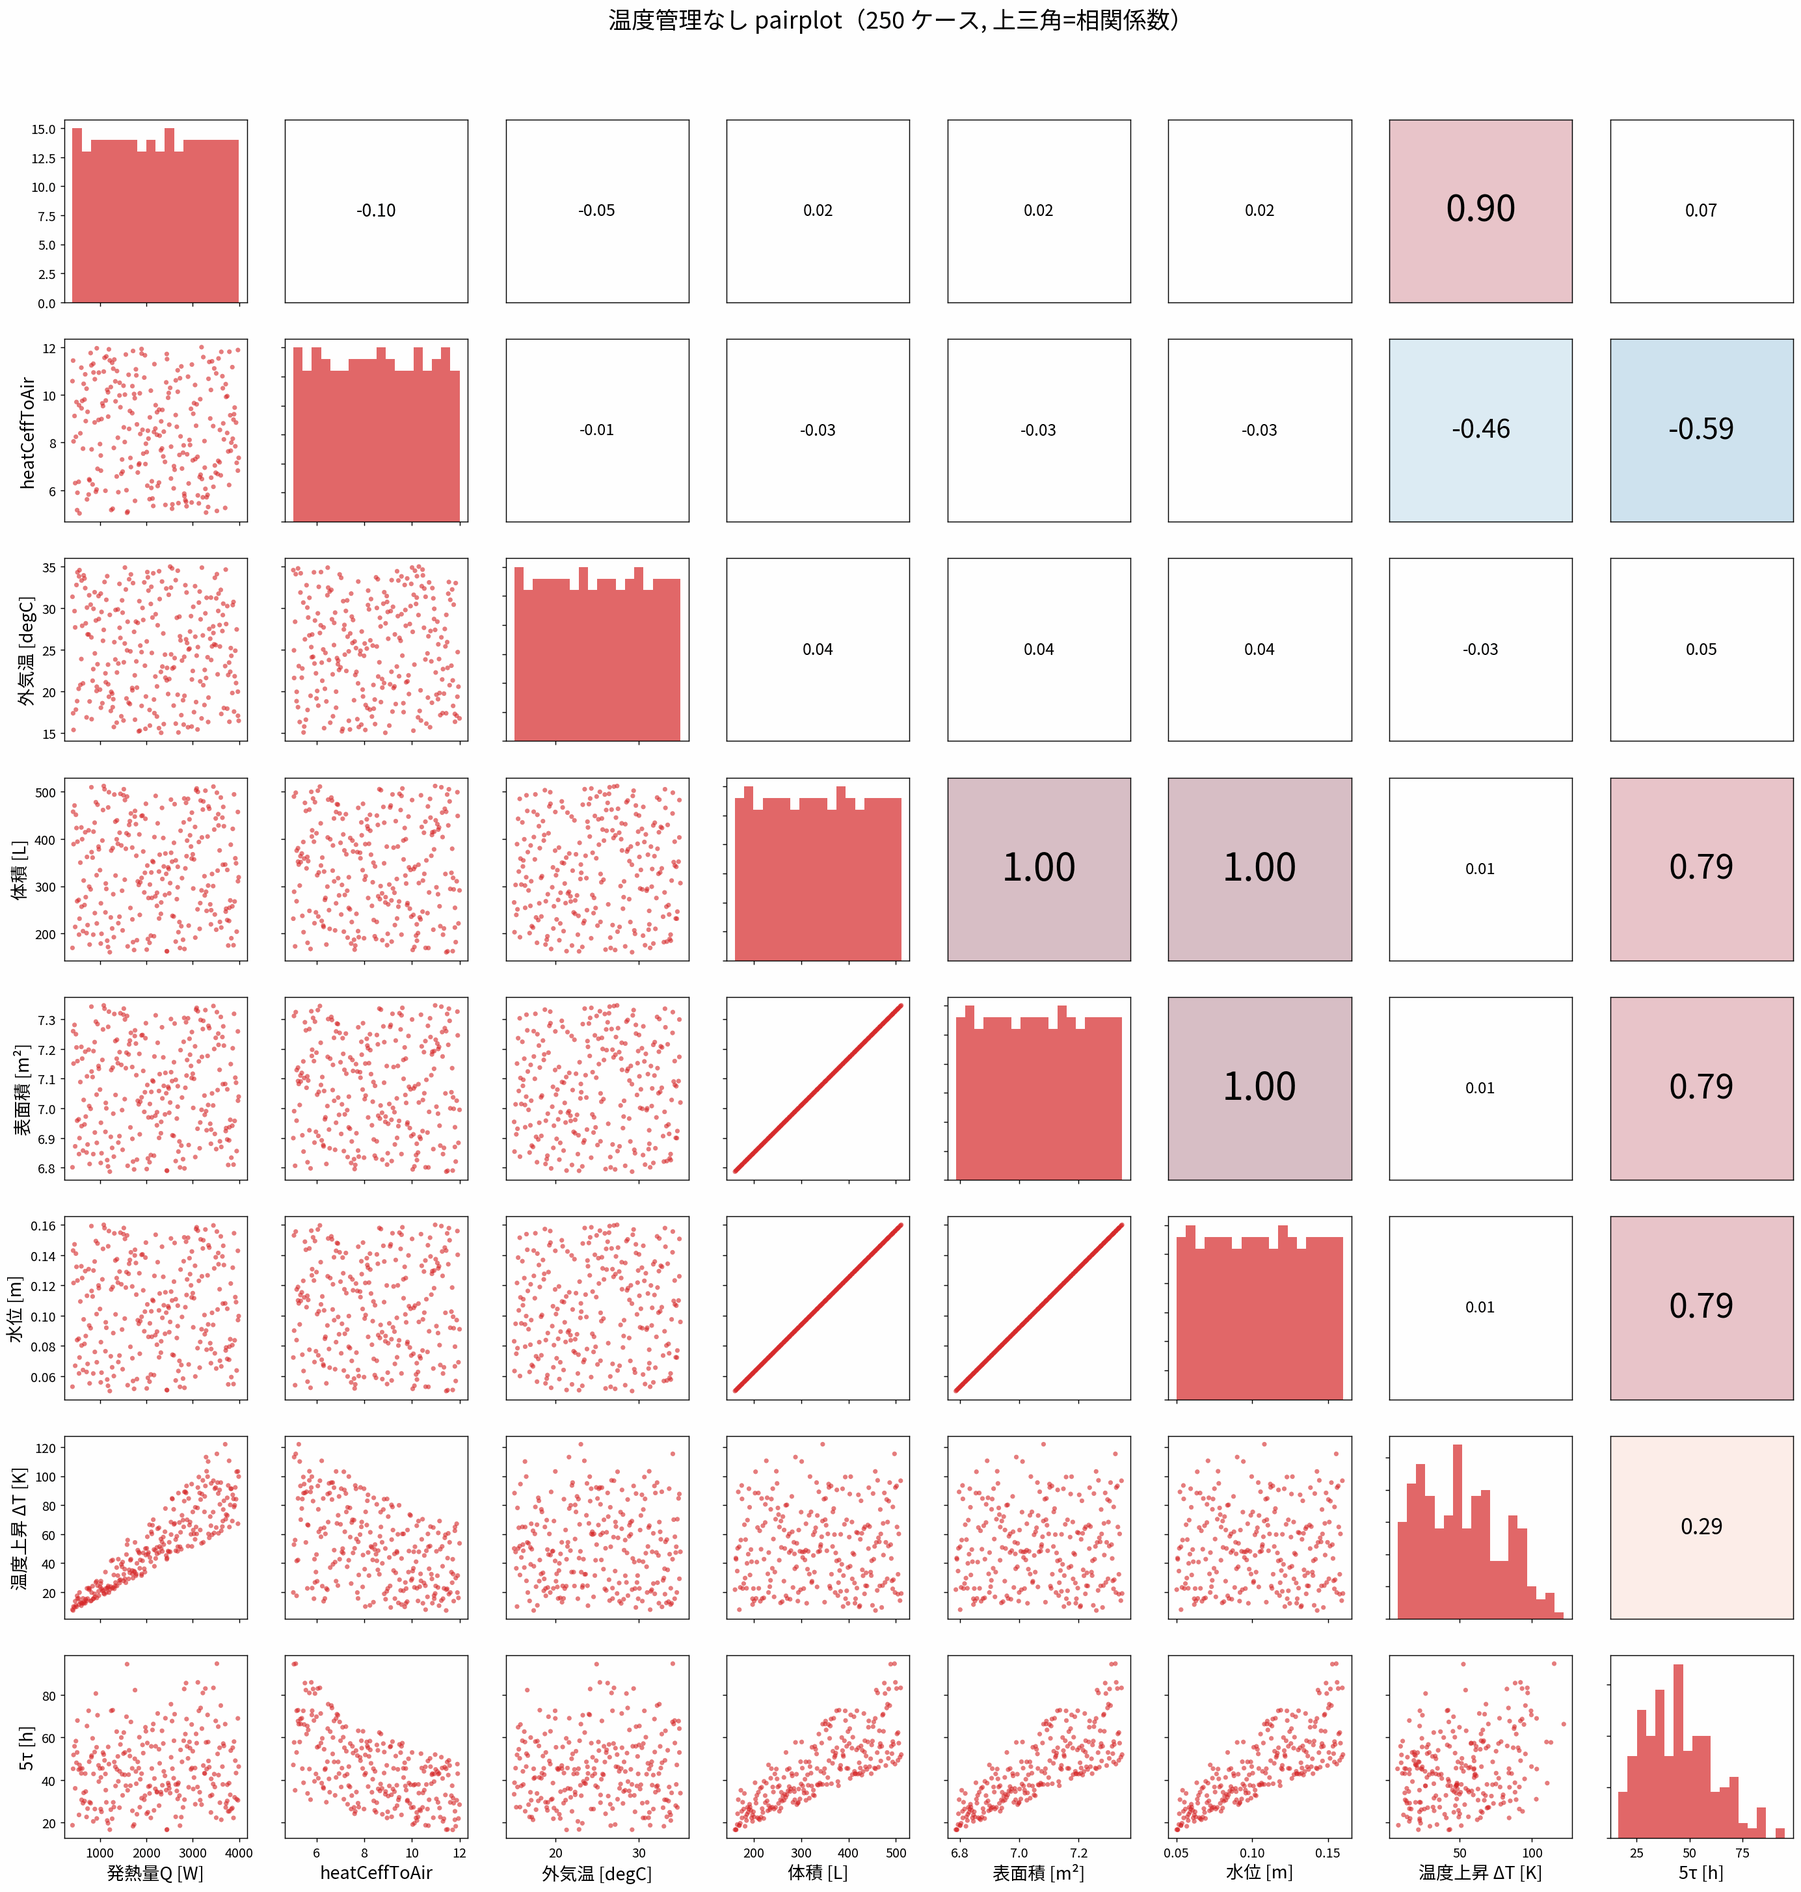
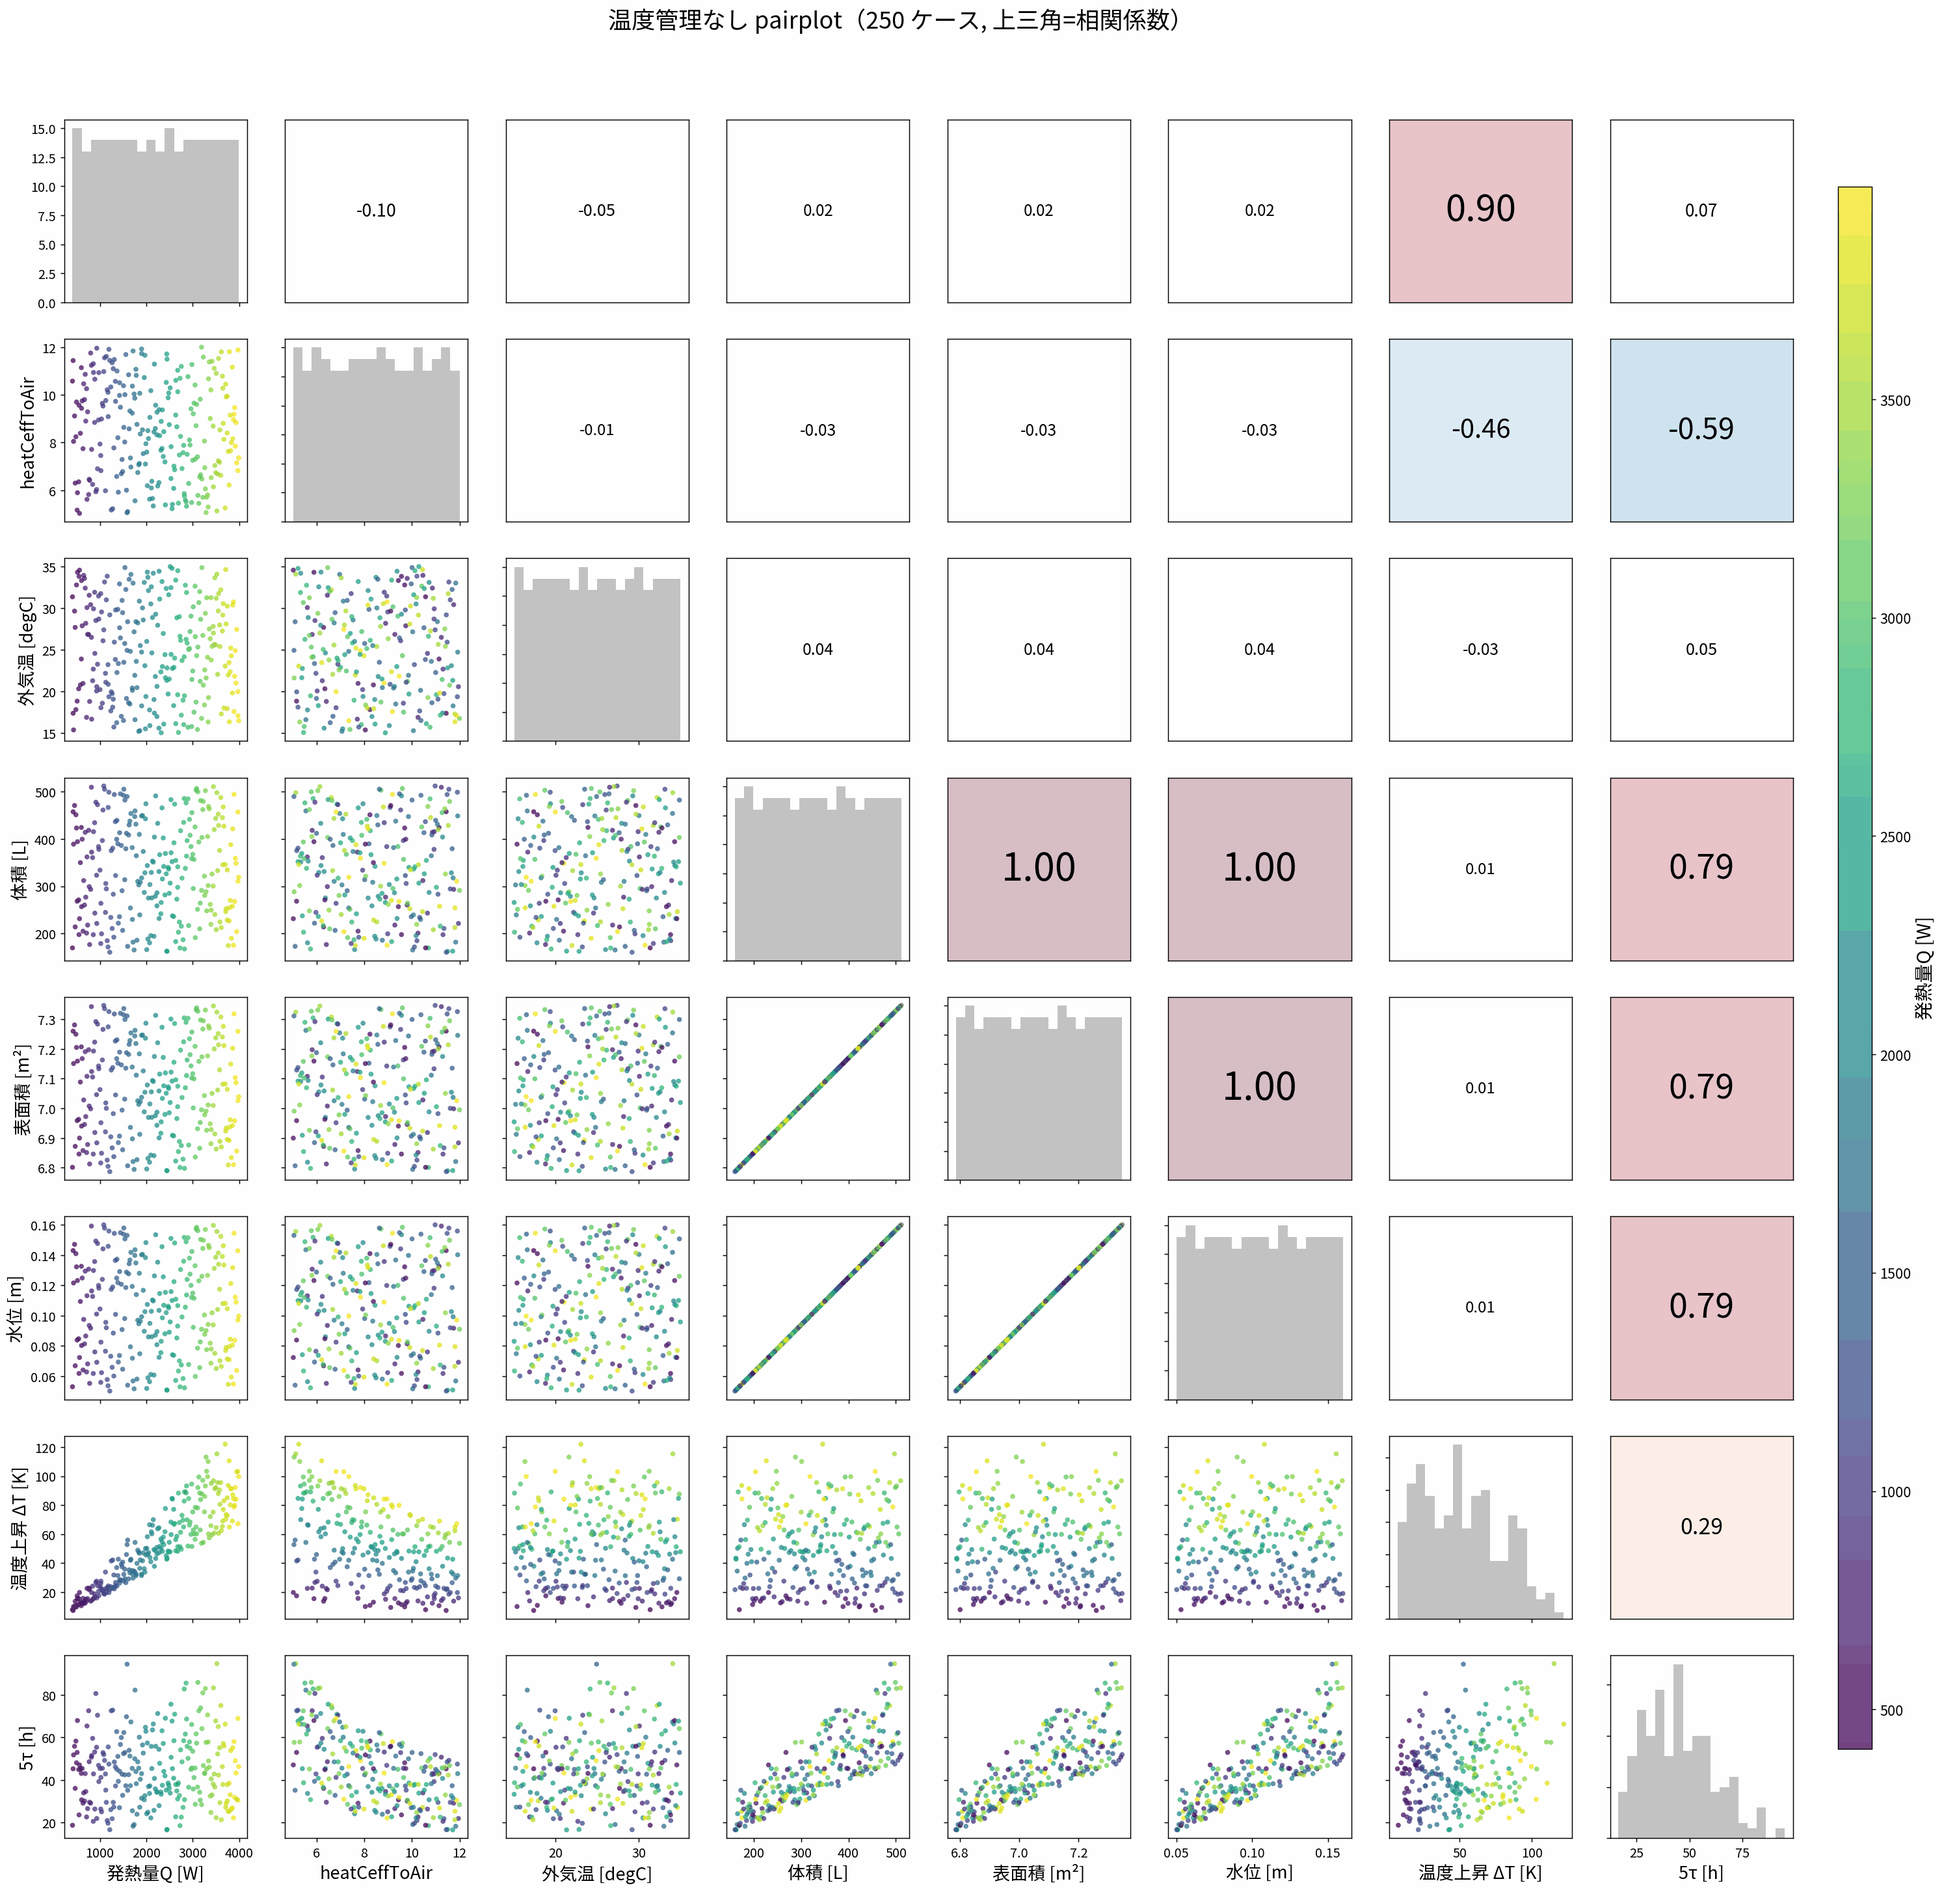
温度管理pairplot(あり/なし)を発熱量Qで色分け
- pairplot1をカラーマップ(viridis)+カラーバー対応にし、点の色=発熱量Q に
- あり側はΔTがQ<3500で0, Q>3500(冷却上限超)で上昇するのが色で明瞭

Claude-Session: https://claude.ai/code/session_012Bb2Gqoegt25dmMh1N6dBX

diff --git a/003_tank_para/pairplot_control.py b/003_tank_para/pairplot_control.py
@@ -88,10 +88,11 @@ def lhs(n, ranges, seed=1):
     return out
 
 
-def pairplot1(data, labels, color, path, title):
-    """単色 pairplot。下三角=散布, 対角=ヒスト, 上三角=相関係数(定数列は—)。"""
+def pairplot1(data, labels, cvals, clabel, path, title):
+    """pairplot。点の色 = cvals(発熱量Q)。下三角=散布, 対角=ヒスト, 上三角=相関係数。"""
     m = len(labels)
     fig, axes = plt.subplots(m, m, figsize=(3.3 * m, 3.3 * m))
+    sc = None
     for i in range(m):
         for j in range(m):
             ax = axes[i, j]
@@ -108,9 +109,10 @@ def pairplot1(data, labels, color, path, title):
                             transform=ax.transAxes, fontweight="bold", fontsize=13 + abs(r) * 20)
                 ax.set_xticks([]); ax.set_yticks([]); continue
             if i == j:
-                ax.hist(data[:, i], bins=18, color=color, alpha=0.7)
+                ax.hist(data[:, i], bins=18, color="0.7", alpha=0.8)
             else:
-                ax.scatter(data[:, j], data[:, i], c=color, s=16, alpha=0.6, edgecolor="none")
+                sc = ax.scatter(data[:, j], data[:, i], c=cvals, cmap="viridis",
+                                s=18, alpha=0.75, edgecolor="none")
             if i == m - 1:
                 ax.set_xlabel(labels[j], fontsize=15)
             else:
@@ -120,6 +122,9 @@ def pairplot1(data, labels, color, path, title):
             elif j != 0:
                 ax.set_yticklabels([])
             ax.tick_params(labelsize=11)
+    fig.subplots_adjust(right=0.9)
+    cax = fig.add_axes([0.92, 0.15, 0.015, 0.7])
+    cbar = fig.colorbar(sc, cax=cax); cbar.set_label(clabel, fontsize=16); cbar.ax.tick_params(labelsize=12)
     fig.suptitle(title, fontsize=20, y=0.93)
     plt.savefig(path, dpi=130, bbox_inches="tight")
     plt.close()
@@ -152,9 +157,9 @@ def main():
 
     data_off = np.column_stack([Q, h_air, Tair, V, Ar, level, dT_off, tau5])
     data_on = np.column_stack([Q, h_air, Tair, V, Ar, level, dT_on, tau5])
-    pairplot1(data_off, labels, "tab:red", os.path.join(IMG, "pairplot_control_off.png"),
+    pairplot1(data_off, labels, Q, "発熱量Q [W]", os.path.join(IMG, "pairplot_control_off.png"),
               "温度管理なし pairplot（%d ケース, 上三角=相関係数）" % n)
-    pairplot1(data_on, labels, "tab:blue", os.path.join(IMG, "pairplot_control_on.png"),
+    pairplot1(data_on, labels, Q, "発熱量Q [W]", os.path.join(IMG, "pairplot_control_on.png"),
               "温度管理あり pairplot（目標=外気温+冷却上限3500W, %d ケース）" % n)
     print("温度管理なし %d ケース, あり %d ケース（計 %d）" % (n, n, 2 * n))
     print("なし: ΔT=%.1f〜%.1f K / あり: ΔT=%.1f〜%.1f K (冷却上限%.0fW超で上昇)" % (dT_off.min(), dT_off.max(), dT_on.min(), dT_on.max(), Qcool_max))
